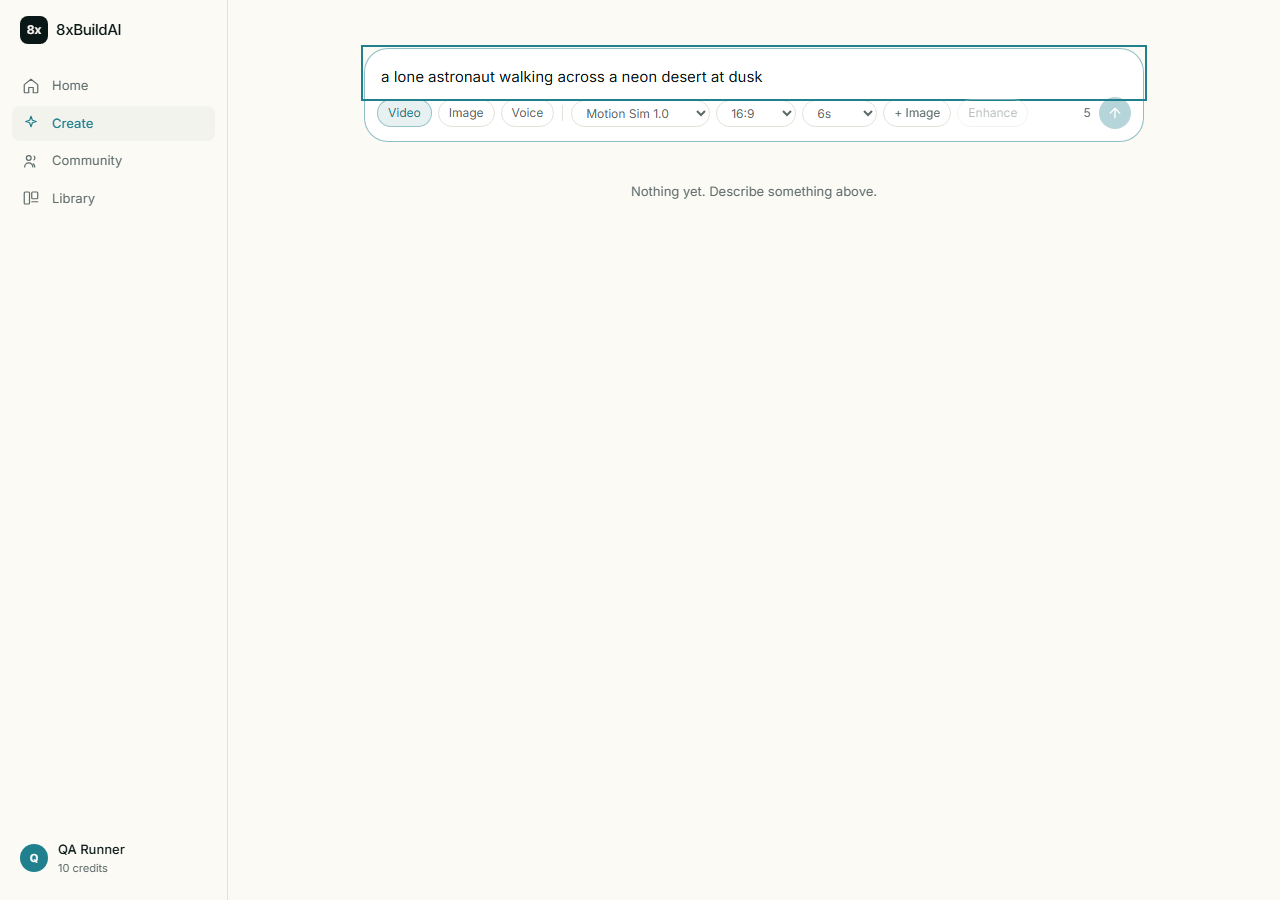
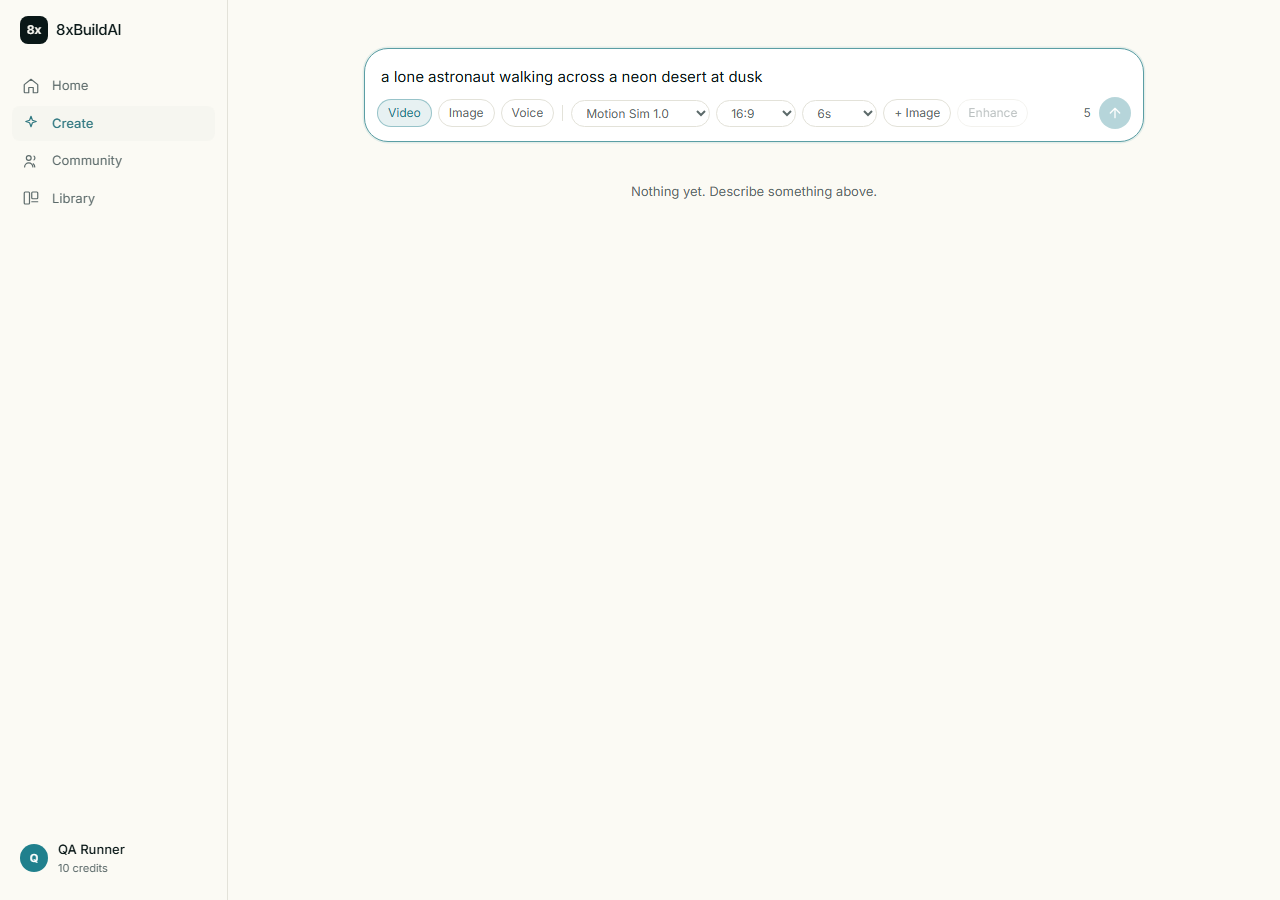
Fix the square focus rectangle and scrollbar flicker in the composer
Typing drew a hard-cornered turquoise rectangle across the rounded
composer. An outline follows the focused element's own border-radius,
and the textarea is a plain box inside the rounded container with no
radius of its own — so the global :focus-visible ring, which beats
Tailwind's outline-none on source order at equal specificity, rendered
square corners over the design.

The container now carries the focus state with a border and a ring,
both of which follow its radius, and the ring is suppressed on that one
field. Every button, link and other input keeps it.

The field was also overflow-y: auto permanently, so a scrollbar
appeared and disappeared on every line wrap even though it auto-grows
and rarely needs one. Overflow is now toggled: hidden while the content
fits, auto once it passes the 260px cap.

Four QA checks cover it. 40/40.

diff --git a/web/src/components/Composer.tsx b/web/src/components/Composer.tsx
@@ -113,12 +113,21 @@ export default function Composer({
     if (usable && (!selected || selected.kind !== kind)) setModel(usable.id);
   }, [kind, models, selected]);
 
-  // Grow the textarea with its content instead of scrolling inside it.
+  /*
+   * Grow with the content instead of scrolling inside it.
+   *
+   * overflow is toggled rather than left on `auto`: a permanently scrollable
+   * field flickers a scrollbar on and off as each line wraps. It only becomes
+   * scrollable once the content genuinely exceeds the cap.
+   */
   useEffect(() => {
     const el = textarea.current;
     if (!el) return;
+    const MAX = 260;
     el.style.height = 'auto';
-    el.style.height = `${Math.min(el.scrollHeight, 260)}px`;
+    const next = Math.min(el.scrollHeight, MAX);
+    el.style.height = `${next}px`;
+    el.style.overflowY = el.scrollHeight > MAX ? 'auto' : 'hidden';
   }, [prompt]);
 
   async function enhance() {
@@ -165,7 +174,7 @@ export default function Composer({
 
   return (
     <form onSubmit={submit}>
-      <div className="rounded-[var(--radius-composer)] border border-border bg-surface transition focus-within:border-accent/50">
+      <div className="rounded-[var(--radius-composer)] border border-border bg-surface transition focus-within:border-accent focus-within:ring-2 focus-within:ring-accent/15">
         <textarea
           ref={textarea}
           value={prompt}
@@ -182,7 +191,7 @@ export default function Composer({
           rows={1}
           placeholder={PLACEHOLDER[kind]}
           aria-label="Prompt"
-          className="block w-full resize-none bg-transparent px-4 pt-4 pb-2 text-[15px] leading-relaxed outline-none"
+          className="composer-field block w-full resize-none overflow-y-hidden bg-transparent px-4 pt-4 pb-2 text-[15px] leading-relaxed outline-none"
         />
 
         {image && (

diff --git a/web/src/index.css b/web/src/index.css
@@ -89,6 +89,22 @@ body {
   outline-offset: 2px;
 }
 
+/*
+ * The composer's field is an exception.
+ *
+ * An outline follows the element's own border-radius, and the textarea has
+ * none — it is a plain box inside a rounded container. So the focus ring drew
+ * a hard-cornered rectangle straight across the composer. The container shows
+ * the focus state instead (border + ring, both of which follow its radius),
+ * so the field must not draw its own.
+ *
+ * This suppresses the ring on one element, not globally: every button, link
+ * and other input still gets it.
+ */
+.composer-field:focus-visible {
+  outline: none;
+}
+
 * {
   scrollbar-width: thin;
   scrollbar-color: var(--color-border) transparent;

diff --git a/.agent-logs/2026-09-11_13-04-52_480a652f-abe7-4f30-976d-fb4b307760c2.md b/.agent-logs/2026-09-11_13-04-52_480a652f-abe7-4f30-976d-fb4b307760c2.md
@@ -5,9 +5,9 @@ author: ulvi986
 model: claude-opus-5
 tool: claude-code
 project: 8xVideoAI
-total_exchanges: 5
+total_exchanges: 7
 first_prompt_time: 2026-09-11T13:04:52.424Z
-last_prompt_time: 2026-09-11T14:32:45.763Z
+last_prompt_time: 2026-09-11T18:33:22.362Z
 ---
 
 # Session Log - 2026-09-11
@@ -140,4 +140,44 @@ timestamp: 2026-09-11T14:32:45.763Z
 model: claude-opus-5
 
 hey hey wait you doing same things, recreate all design all plaftorm design I say, create like as a openai, perplexity. So simple and when you are doing this read the agent from .agents folder
+
+[LOG_ENTRY type=PROMPT num=6 session=480a652f]
+timestamp: 2026-09-11T17:24:26.840Z
+model: <synthetic>
+
+Your claude.ai usage limit has reset. Continue the task you were working on when the limit was reached; do not repeat work that is already complete.
+
+[LOG_ENTRY type=RESPONSE num=6 session=480a652f]
+timestamp: 2026-09-11T17:25:28.238Z
+model: claude-opus-5
+
+Done — the whole interface is rebuilt, and I've reopened **http://localhost:5173**. (The two modified files left in the tree are just this session's own capture log, which updates as we talk.)
+
+You were right to stop me. I was restyling. The actual lesson from both references is structural, and it's this:
+
+**Mode is a property of the input, not a destination.**
+
+ChatGPT and Perplexity never make you navigate to change what you're making. So `/video`, `/image` and `/audio` are no longer three pages with three near-identical 360px form rails — they're **one composer with mode pills**, and that composer *is* the home screen. The routes still work as deep links; they just preselect the mode. That deleted two pages rather than repainting them.
+
+I also read the agents properly this time and found I'd skipped something: `ui.md` says to read `.shared/RESEARCH.md` *before* implementation, and that file never existed. I wrote it first — it's the seven structural patterns plus acceptance criteria, and it's what the rebuild was actually built against.
+
+**What changed:** top nav → slim rail (bottom bar on mobile). Profile → Library. `/explore` deleted. Light is now default on Perplexity's real brand palette — Paper White `#FBFAF4`, Offblack `#091717`, True Turquoise `#20808D` — with dark as a token swap. Gone: aurora blooms, marquee, count-up stats, scroll reveals, gradient tiles, discount badges, credit-dot meter, and the five disabled decoy nav links. Stylesheet went **36 KB → 19 KB**.
+
+One rule I enforced in the test suite, because it was the real problem before: **one accent, one action.** The old design used lime on nav links, borders, badges, chips and buttons simultaneously, so nothing read as primary. A QA check now counts filled accent backgrounds per page and fails above one.
+
+## Two bugs the rebuild exposed
+
+**The light theme never rendered.** I'd written the dark tokens as `@media { @theme { … } }` — but Tailwind v4's `@theme` is compile-time and gets hoisted *out* of the media query, so dark was emitted unconditionally and won in both themes. What makes this worth flagging: my first contrast check **passed in both themes** — because both were dark, and dark has fine contrast. A check that measures one theme at a time can't see that the two are identical. There are now assertions that the themes differ and that light is exactly the paper ground.
+
+**A signed-out visitor couldn't start.** The composer gated sending on credits, which a signed-out visitor doesn't have — so the button was permanently disabled, and the redirect-to-signup inside the submit handler could never fire. They also got a red *"Needs 5 credits; you have 0"* on first load. Fixed, with three checks covering it.
+
+QA rewritten for the new UI: **36 checks, three consecutive clean runs**, including the redesign's own criteria (narrow column, one filled accent, unknown routes 404) and both themes. Real generation is untouched — same endpoints, same schema, no earlier decision reversed.
+
+Worth knowing: I did **not** re-run `qa/real-providers.mjs` after the rebuild. It's a presentation-layer change and the API is unchanged, so it should pass — but I haven't proven that since the redesign. `cd web && node qa/real-providers.mjs` if you want it confirmed before showing anyone.
+
+[LOG_ENTRY type=PROMPT num=7 session=480a652f]
+timestamp: 2026-09-11T18:33:22.362Z
+model: claude-opus-5
+
+not bad, but if I want to write something then I see rectengular things and scroll something please fix it
 

diff --git a/shared/BUGS.md b/shared/BUGS.md
@@ -232,3 +232,41 @@ redirects to sign-in *inside* the submit handler, which could never fire.
 **Fix:** the composer takes a `signedIn` prop. When false it skips the credit
 gate and hides the cost readout and the warning; submitting hands off to the
 parent, which redirects. Three QA checks cover it.
+
+---
+
+## BUG-009 — A square focus rectangle cut across the composer
+
+**Severity:** Medium — visible the moment anyone starts typing, which is the
+first thing anyone does.
+
+**Steps to reproduce:** click into the composer on any page and type.
+
+**Expected:** the rounded composer indicates focus.
+
+**Actual:** a hard-cornered turquoise rectangle was drawn around the text area,
+overlapping the rounded container. A scrollbar also flickered in and out of the
+field as lines wrapped.
+
+**Cause:** two separate things.
+
+1. The global `:focus-visible { outline: 2px solid … }` rule and Tailwind's
+   `outline-none` utility have the same specificity, and the custom rule comes
+   later in the stylesheet, so it won. An outline follows the *focused
+   element's* border-radius — and the textarea is a plain box inside the
+   rounded container, with no radius of its own. Hence square corners.
+2. The field was `overflow-y: auto` permanently, so the browser showed and hid
+   a scrollbar on every wrap, even though the field auto-grows and normally
+   never needs one.
+
+**Fix:**
+1. `.composer-field:focus-visible { outline: none }`, and the container now
+   carries the focus state with a border and a ring — both of which follow its
+   radius. The ring is suppressed on exactly one element; every button, link
+   and other input keeps it.
+2. The auto-grow effect toggles overflow: `hidden` while the content fits,
+   `auto` only once it exceeds the 260px cap.
+
+Four QA checks cover it: no outline on the field, a visible focus state on the
+container, no scrolling on ordinary text, and capped height with scrolling
+beyond it.

diff --git a/shared/status.md b/shared/status.md
@@ -22,7 +22,7 @@ ChatGPT/Perplexity reference.
 
 | Suite | Scope | Result |
 |---|---|---|
-| `web/qa/flow.mjs` | critical flow, redesign criteria, both themes | **36/36** |
+| `web/qa/flow.mjs` | critical flow, redesign criteria, composer behaviour, both themes | **40/40** |
 | `web/qa/real-providers.mjs` | Veo + Gemini image + Gemini TTS + Azure | **7/7** |
 | `server/npm run check:gemini` | key auth + model availability | all 4 models ok |
 | `server/npm run check:azure` | rewriter round trip | ok, ~6s |

diff --git a/README.md b/README.md
@@ -81,7 +81,7 @@ shared/     PROJECT, DESIGN, STATUS, TASKS, DECISIONS, BUGS
 ```bash
 cd web
 npx playwright install chromium   # once
-node qa/flow.mjs                  # 36 checks, free, ~2 min
+node qa/flow.mjs                  # 40 checks, free, ~2 min
 node qa/real-providers.mjs        # 7 checks against the real models — billed
 ```
 
